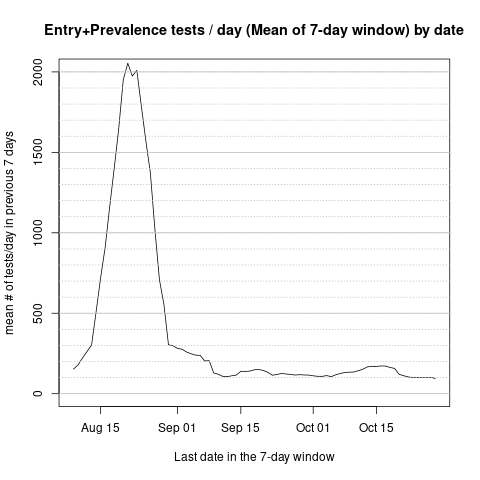
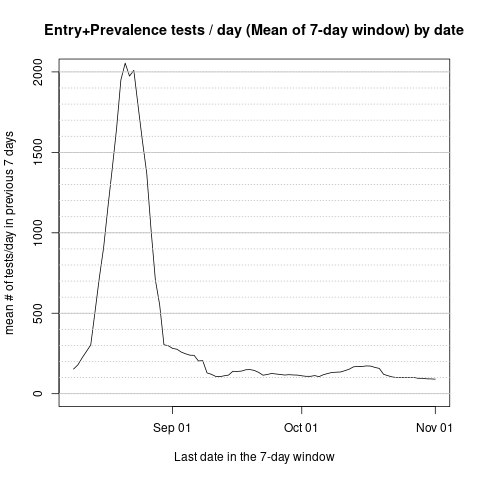
to Nov 1

diff --git a/README.md b/README.md
@@ -40,7 +40,7 @@ Currently the reports are for the periods:
    * [Oct 15 to Oct 21](https://protect.ku.edu/sites/protect/files/documents/Dashboard/COVID-19_Dashboard_Oct15toOct21.pdf)
    * [Oct 19 to Oct 29](https://protect.ku.edu/sites/protect/files/documents/Dashboard/COVID-19_Dashboard_Oct19toOct25.pdf)
    * [Oct 22 to Oct 28](https://protect.ku.edu/sites/protect/files/documents/Dashboard/COVID-19_Dashboard_Oct22toOct28.pdf) 
-
+   * [Oct 26 to Nov 01](https://protect.ku.edu/sites/protect/files/documents/Dashboard/COVID-19_Dashboard_Oct26toNov1.pdf) 
 None of the reports trace the test-positivity percentage over time, which I was interested in.
 For a time-series of test-positivity rates to be easily interpreted as a proxy of the campus-wide prevalence of SARS-CoV-2 infections, it is important to either have detailed knowledge of the biases associated with targeted testing, or to focus on the entry tests and "randomized prevalence testing."
 Thus, this repository contains only data from the "Entry & Prevalence Testing" page of the Dashboard reports (that is page 2 in each of the reports).
